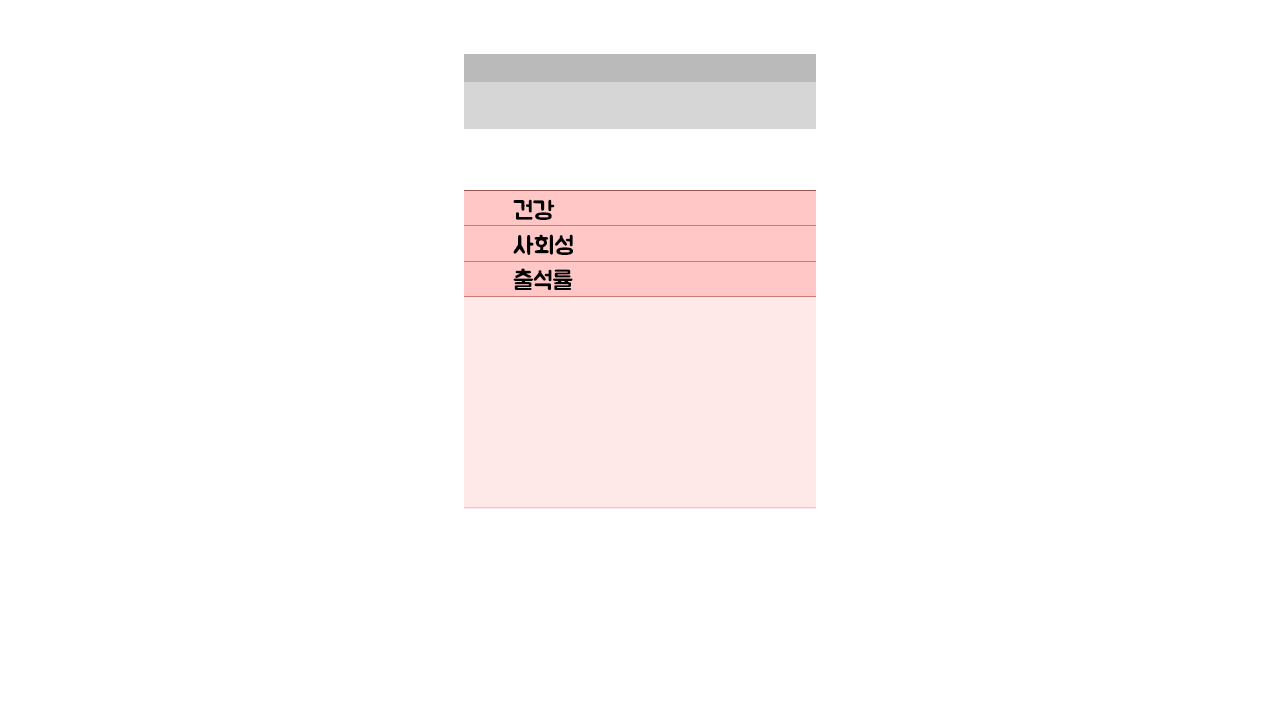
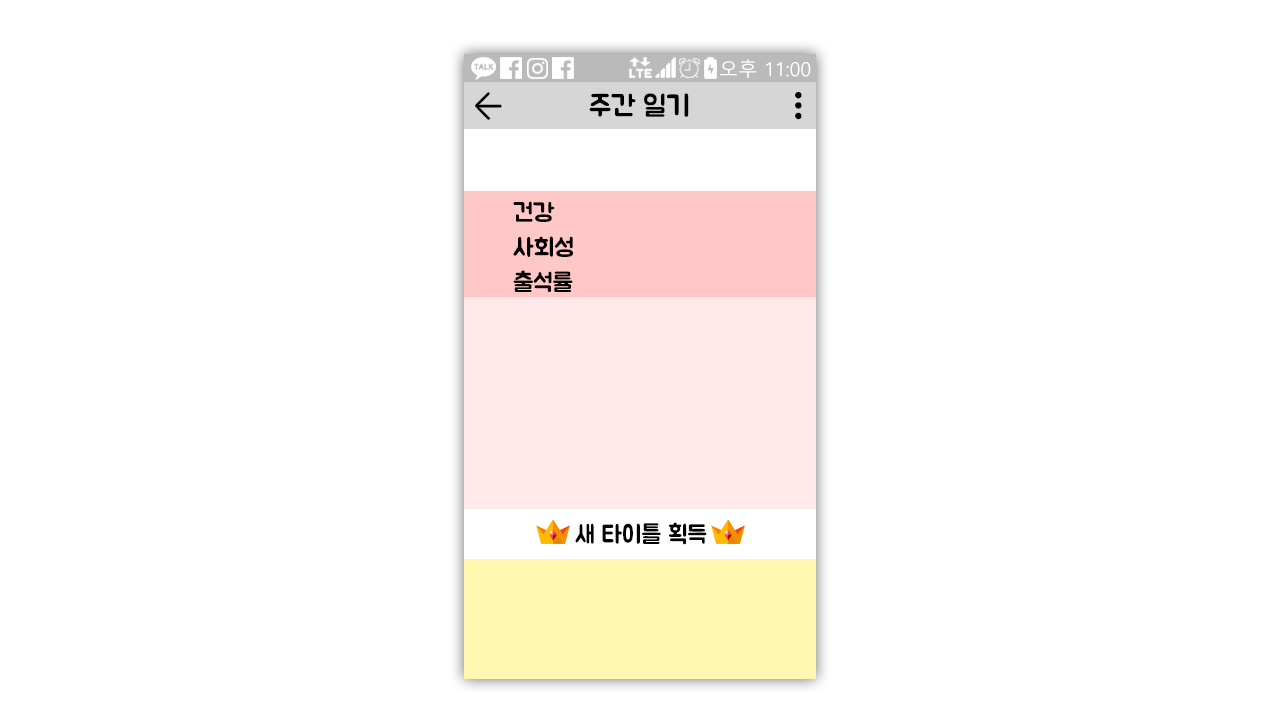
Multiple changes : add mid-result UI, wip fixing text bug

Changed region(s): [[0.3438, 0.0611, 0.6562, 0.9778], [0.4062, 0.275, 0.4688, 0.4278]]

diff --git a/NewbieSimulator/NewbieSimulator/scene_4.c b/NewbieSimulator/NewbieSimulator/scene_4.c
@@ -74,6 +74,8 @@ ALLEGRO_CONFIG *conf_lecture;
 
 char hp_str[10], sp_str[10];
 
+bool test = false;
+
 //object_t player[4];
 
 typedef struct character {
@@ -101,11 +103,13 @@ void set_player_position_to_vertex(Character* chr, int index);
 void letscontinue();
 
 struct ability {
-	float pre_hp;
-	float pre_sp;
-};
-int pre_week;
+	float hp;
+	float sp;
+	float atd_rate[6];
+}pre;
+int pre_week = 1;
 char weekstr[20];
+bool continue_clicked = false;
 
 int scene_4_init() {
 
@@ -120,8 +124,6 @@ int scene_4_init() {
 	Stack.push(&Stack, create_object("Resources\\UI\\routegame\\map.jpg", 0, 0));
 	map = &Stack.objs[Stack.counter - 1];
 
-	
-
 	// ------------------------------------
 	// initial setting
 	// ------------------------------------
@@ -135,16 +137,7 @@ int scene_4_init() {
 
 	conf = al_load_config_file("Resources\\korean\\routegame.ini");
 	conf_lecture = al_load_config_file("Resources\\korean\\lecture_info.ini");
-	/*
-	object_t route1 = create_object("Resources\\UI\\routegame\\route1.png", 100, 100);
-	ui_set_button(&route1);
-	ui_set_on_click_listener(&route1, selected1);
-	Stack.push(&Stack, route1); // 7
-	object_t route2 = create_object("Resources\\UI\\routegame\\route2.png", 100, 200);
-	ui_set_button(&route2);
-	ui_set_on_click_listener(&route2, selected2);
-	Stack.push(&Stack, route2); // 8
-	*/
+
 	// ------------------------------------
 	// graph structure setting
 	// ------------------------------------
@@ -302,20 +295,59 @@ int scene_4_init() {
 	// Result Window
 
 	result_window_starting = Stack.counter;
-	object_t middle_result = create_object("Resources\\UI\\routegmae\\middle_result.png", 0, 0);
-	middle_result.enable = false;
+	object_t middle_result = create_object("Resources\\UI\\routegame\\middle_result.png", 0, 0);
+	//middle_result.enable = false;
 	Stack.push(&Stack, middle_result);
 
-	object_t continue_button = create_object("Resources\\UI\\routegame\\continue_button.png", SCREEN_W / 2, 500);
+	object_t continue_button = create_object("Resources\\UI\\routegame\\continue_button.png", 700, 570);
 	ui_set_button(&continue_button);
 	ui_set_on_click_listener(&continue_button, letscontinue);
-	continue_button.enable = false;
+	//continue_button.enable = false;
 	Stack.push(&Stack, continue_button);
 	
-	object_t what_week = create_object(NULL, 0, 0);
-	sprintf(weekstr, "%d %d", today_Month, today_of_week);
-	ui_set_text(&what_week, al_map_rgb(255, 255, 255), "Resources\\font\\BMJUA.ttf", ALLEGRO_ALIGN_LEFT, weekstr, 24);
-	Stack.push(&Stack, what_week);
+	object_t what_week_num = create_object(NULL, 490,140);
+	sprintf(weekstr, "%d     %d", today_Month, today_of_week);
+	ui_set_text(&what_week_num, al_map_rgb(0,0,0), "Resources\\font\\BMJUA.ttf", ALLEGRO_ALIGN_LEFT, weekstr, 36);
+	//what_week_num.enable = false;
+	Stack.push(&Stack, what_week_num);
+#define WEEKNUM Stack.objs[result_window_starting+2]
+	object_t what_week_hangel = create_object(NULL, 510, 140);
+	ui_set_text(&what_week_hangel, al_map_rgb(0,0,0), "Resources\\font\\BMJUA.ttf", ALLEGRO_ALIGN_LEFT, al_get_config_value(conf, "korean", "whatweek"), 36);
+	//what_week_hangel.enable = false;
+	Stack.push(&Stack, what_week_hangel);
+
+	object_t hp_variation = create_object(NULL, 700, 196);
+	ui_set_text(&hp_variation, al_map_rgb(0, 0, 0), "Resources\\font\\BMJUA.ttf", ALLEGRO_ALIGN_LEFT, "+5.0", 24);
+	//hp_variation.enable = false;
+	Stack.push(&Stack, hp_variation);
+	object_t sp_variation = create_object(NULL, 700, 231);
+	//sp_variation.enable = false;
+	Stack.push(&Stack, sp_variation);
+#define HP_VAR Stack.objs[result_window_starting+4]
+#define SP_VAR Stack.objs[result_window_starting+5]
+
+	object_t clsname[6];
+	for (int i = 0; i < 6; i++) {
+		clsname[i] = create_object(NULL, 513, 304 + i * 20);
+		ui_set_text(&clsname[i], al_map_rgb(0,0,0), "Resources\\font\\BMJUA.ttf", ALLEGRO_ALIGN_LEFT, "classname", 24);
+		//clsname[i].enable = false;
+		Stack.push(&Stack, clsname[i]);
+	}
+
+	printf("clsname : %d\n", Stack.counter);
+
+	object_t variation[6];
+	for (i = 0; i < 6; i++) {
+		variation[i] = create_object(NULL, 700, 304 + i * 20);
+		//variation[i].enable = false;
+		Stack.push(&Stack, variation[i]);
+	}
+	printf("variation : %d\n", Stack.counter);
+
+	pre.hp = 0.0;
+	pre.sp = 0.0;
+	for (i = 0; i < 6; i++)
+		pre.atd_rate[i] = 0.0;
 
 
 	// ------------------------------------
@@ -485,7 +517,7 @@ int scene_4_update() {
 	// ------------------------------------
 	// trigger sequencial event
 	// ------------------------------------
-	
+
 	if (!is_seq_triggered) {
 		int p = trigger_sequencial_event(today_Month, today_of_week, week_count, sequencial_event_func);
 		if (p == 1) {
@@ -537,10 +569,63 @@ int scene_4_update() {
 			week_count = 1;
 		}
 
-		if (pre_week != today_of_week) {
-			Stack.objs[result_window_starting].enable = true;
+		if (pre_week != week_count && test==false) {
+			if (test==false) {
+				printf("enter\n");
+	//al_stop_timer(maingame_timer);
+	//al_stop_timer(event_timer);
+
+				sprintf(weekstr, "%d     %d", today_Month, pre_week);
+				ui_set_text(&WEEKNUM, al_map_rgb(0, 0, 0), "Resources\\font\\BMJUA.ttf", ALLEGRO_ALIGN_LEFT, weekstr, 36);
+
+				char hpvar_str[10]="", spvar_str[10]="";
+
+				if (health_point - pre.hp > 0) {
+					sprintf(hpvar_str, "+%.1f", health_point - pre.hp);
+					printf("print\n");
+				}
+				else if (health_point - pre.hp < 0)
+					//sprintf(hpvar_str, "%.1f", health_point - pre.hp);
+					strcpy(hpvar_str, "minus");
+				else strcpy(hpvar_str, "+-0%");
+
+				if (strcmp("+6.0", hpvar_str) == 0) printf("true\n");
+				else printf("false hpvar_str : %s", hpvar_str);
+
+				ui_set_text(&HP_VAR, al_map_rgb(0, 0, 0), "Resources\\font\\BMJUA.ttf", ALLEGRO_ALIGN_LEFT, hpvar_str, 24);
+				printf("converted hpvar_str : %s\n",hpvar_str);
+
+				if (social_point - pre.sp != 0)
+					//sprintf(spvar_str, "%.1f", social_point - pre.sp);
+					strcpy(spvar_str, "plus");
+				else if (social_point - pre.sp < 0)
+					//sprintf(spvar_str, "%.1f", social_point - pre.sp);
+					strcpy(spvar_str, "minus");
+				else strcpy(spvar_str, "+-0%");
+				ui_set_text(&SP_VAR, al_map_rgb(0, 0, 0), "Resources\\font\\BMJUA.ttf", ALLEGRO_ALIGN_LEFT, spvar_str, 24);
+				
+				for (i = 0; i < 6; i++) {
+					char var[10];
+					if (attendance_rate[i] - pre.atd_rate[i] != 0)
+						sprintf(var, "%.1f", attendance_rate[i] - pre.atd_rate[i]);
+					else strcpy(var, "+-0%");
+					ui_set_text(&Stack.objs[result_window_starting + 12 + i], al_map_rgb(0, 0, 0), "Resources\\font\\BMJUA.ttf", ALLEGRO_ALIGN_LEFT, var, 24);
+				}
+
+				for (i = 0; i < 18; i++)
+					Stack.objs[result_window_starting + i].enable = true;
+
+				//if(!continue_clicked)
+
+				pre.hp = health_point;
+				pre.sp = social_point;
+				for (i = 0; i < 6; i++)
+					pre.atd_rate[i] = attendance_rate[i];
+
+				test = true;		//NEED TO REMOVE!!!!!!!!!!!!!!!!!!
+			}
 		}
-		pre_week = today_of_week;
+		pre_week = week_count;
 
 		is_seq_triggered = false;
 		block_timebar_early_start = true;
@@ -602,7 +687,7 @@ int scene_4_update() {
 		al_resume_timer(maingame_timer);
 		al_start_timer(event_timer);
 		event_timer_clock = 0;
-		for (int i = 0; i < 3; i++) {
+		for (i = 0; i < 3; i++) {
 			Stack.objs[yes_or_no_UI_starting + i].enable = false;
 		}
 		event_choose = false;
@@ -626,7 +711,7 @@ int scene_4_update() {
 
 			// reached destination
 
-			for (int i = 0; i < myGraph->Num_of_Edge; i++)
+			for (i = 0; i < myGraph->Num_of_Edge; i++)
 			{
 				edge e = myGraph->edgeArray[i];
 
@@ -736,10 +821,16 @@ void calculate_second_per_day() {
 }
 
 void calculate_second_per_period(schedule mySchedule) {
+	//int gonggang = 10;
+	//int su_up = 2;
+	//int shuim = 20;
+	int gonggang = 1;
+	int su_up = 1;
+	int shuim = 1;
 	for (int i = 0; i < 9; i++) {
-		second_per_period[i] = (mySchedule.timeTable[today_of_week][i].index == -1) ? 10 : 2;
+		second_per_period[i] = (mySchedule.timeTable[today_of_week][i].index == -1) ? gonggang : su_up;
 	}
-	second_per_period[9] = 20;
+	second_per_period[9] = shuim;
 }
 
 void test_custom_schedule() { // to test
@@ -807,15 +898,17 @@ void map_button_on_click_listener_func(object_t *o)
 void stat_update()
 {
 	sprintf(sp_str, "%0.1f", social_point / 10.0);
-	ui_set_text(&Stack.objs[stat_object_starting], al_map_rgb(0, 0, 255), "Resources\\font\\NanumGothic.ttf", ALLEGRO_ALIGN_CENTER, sp_str, 24);
+	ui_set_text(&Stack.objs[stat_object_starting + 1], al_map_rgb(0, 0, 255), "Resources\\font\\NanumGothic.ttf", ALLEGRO_ALIGN_CENTER, sp_str, 24);
 	sprintf(hp_str, "%0.1f", health_point / 10.0);
-	ui_set_text(&Stack.objs[stat_object_starting + 1], al_map_rgb(0, 0, 255), "Resources\\font\\NanumGothic.ttf", ALLEGRO_ALIGN_CENTER, hp_str, 24);
+	ui_set_text(&Stack.objs[stat_object_starting], al_map_rgb(0, 0, 255), "Resources\\font\\NanumGothic.ttf", ALLEGRO_ALIGN_CENTER, hp_str, 24);
 }
 
 
 void letscontinue()
 {
+	continue_clicked = true;
 }
+
 void edit_timebar_color(schedule mySchedule) {
 	for (int i = 0; i < 9; i++) {
 		Stack.objs[timebar_object_starting + 1 + i].color = (mySchedule.timeTable[today_of_week][i].index == -1) ? al_map_rgb(0, 238, 0) : al_map_rgb(238, 0, 0);
